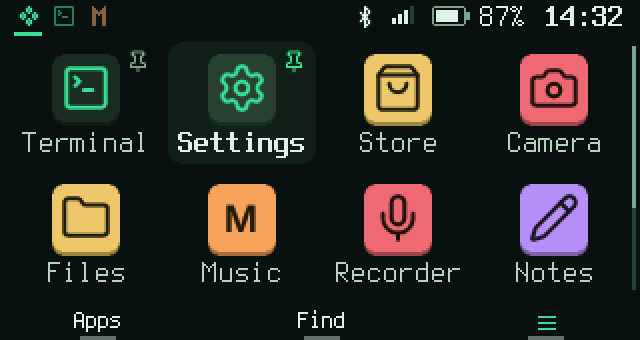
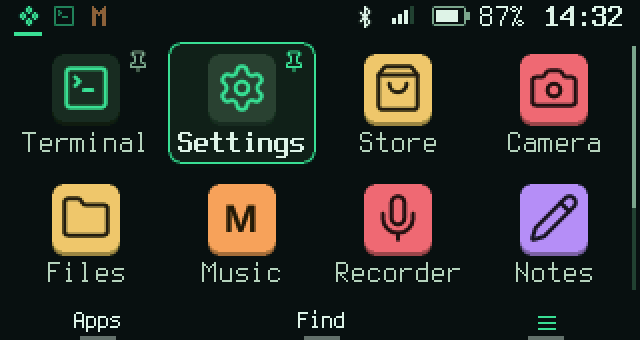
Home and switcher: the selected app has an accent edge
The frosted selection pane alone was faint over a bright wallpaper. A
1 px accent outline now rings the selected tile, app row, switcher card
and notice, so it reads at a glance.

Claude-Session: https://claude.ai/code/session_013xPXD3471KeahpXEShp9A5

Changed region(s): [[0.25, 0.4412, 0.5, 0.5], [0.25, 0.1176, 0.5, 0.1765]]

diff --git a/crates/gh0st-ui/src/widgets.rs b/crates/gh0st-ui/src/widgets.rs
@@ -838,6 +838,9 @@ pub fn selection(c: &mut Canvas, t: &Theme, r: Rect) {
     let under = Rect::new(r.x, r.y + t.m.lift, r.w, r.h);
     c.round_rect(under, t.m.radius_large, theme::foot(t.c.surface));
     c.pane(r, t.m.radius_large, t.c.surface);
+    // An accent edge: the frosted pane alone is faint over a bright
+    // wallpaper.
+    c.stroke_round_rect(r, t.m.radius_large, t.c.accent);
 }
 
 /// What a grid tile or list row shows for one app.

diff --git a/crates/gh0st-shell/src/power.rs b/crates/gh0st-shell/src/power.rs
@@ -11,7 +11,8 @@ use gh0st_ui::theme::Theme;
 use gh0st_ui::widgets::{self, Chip, Hint, Look, Status};
 
 const TITLE: &str = "Restart or power off?";
-const BODY: &str = "Open apps close first. After a power off, turn the side switch off and on to start.";
+const BODY: &str =
+    "Open apps close first. After a power off, turn the side switch off and on to start.";
 
 #[derive(Debug, PartialEq, Eq)]
 pub enum Action {

diff --git a/docs/design.md b/docs/design.md
@@ -335,9 +335,10 @@ Depth comes from a ledge, not lines or shadows. A thing that stands up is
 flat colour on a darker foot (`theme::foot`): 2 px under an app badge, a
 selected tile or card, a dialog and a toast (`Metrics::lift`); 1 px under
 a settings row's icon, a selected row, a key pill and a tag
-(`Metrics::chip_lift`). What is selected stands up off the page; nothing
-draws a ring around it. Only the selected tile or card stands: the rest
-sit flat on the page. Corners are
+(`Metrics::chip_lift`). What is selected stands up off the page. A
+selected tile, app row or switcher card also has a 1 px accent edge, so it
+holds its own over a bright wallpaper. Only the selected tile or card
+stands: the rest sit flat on the page. Corners are
 round and smoothed: 4 px on rows and chips, 5 on app badges, 6 on tiles
 and panes, 7 on cards, 2 on key pills. Every effect is a flat fill, a fill
 that steps from one colour to another, or a picture baked once: nothing
